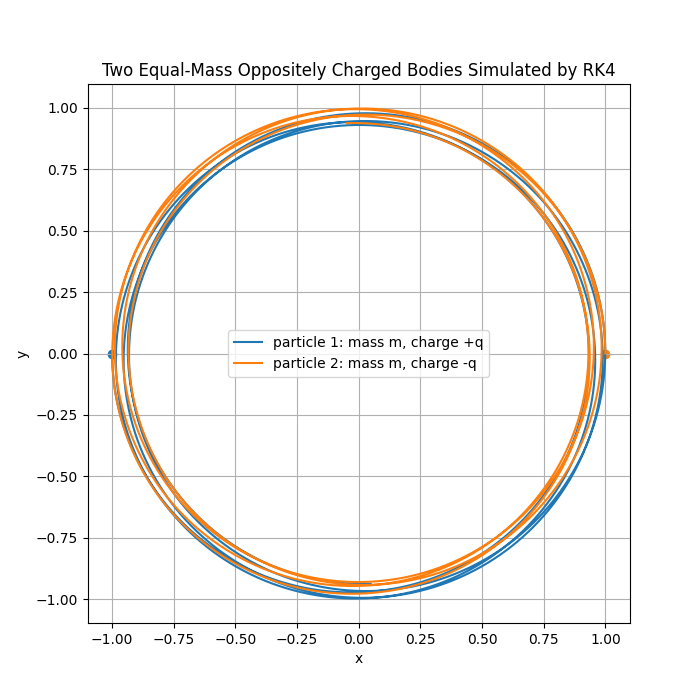
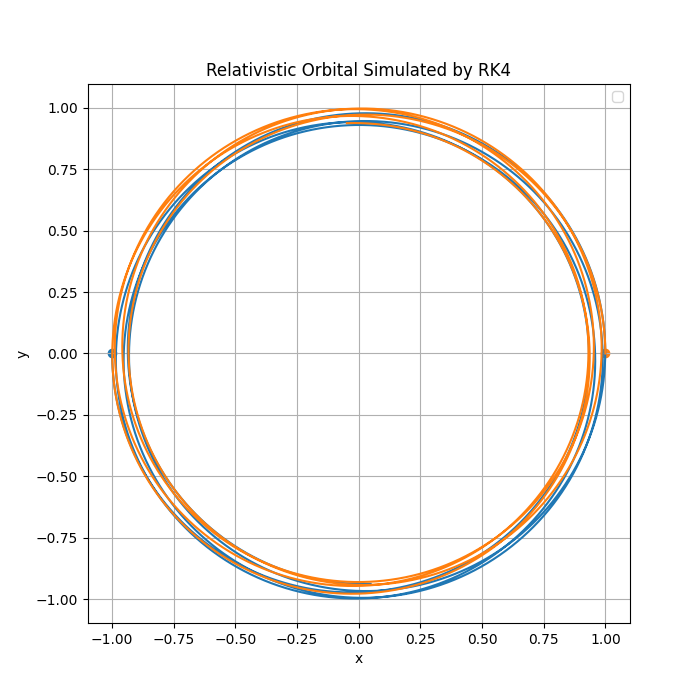
figure

diff --git a/src/content/posts/Lag-elec.md b/src/content/posts/Lag-elec.md
@@ -104,7 +104,7 @@ m_\alpha [a_\alpha+\frac{2(a_\alpha \cdot v_\alpha)v_\alpha+v_\alpha^2 a_\alpha}
 $$
 
 ## 数值模拟
-对于$q_1q_2<0$的双星系统我们可以尝试用RK4模拟一下
+由于这是一个常微分方程,我们可以尝试用RK4模拟一下.取$q_1q_2<0$的双星系统,设置双星初始速度$v_0=\frac{c}{4}$,结果如下
 ```js
 import numpy as np
 import matplotlib.pyplot as plt
@@ -204,3 +204,5 @@ for i in range(1, N):
 <img src="/images/posts/relativistic.png"
      alt=""
      style="display:block; margin:0 auto; width:70%;">
+
+可以看到当$\frac{v}{c}\sim \frac{1}{4}$时轨道与圆形有显著偏离.